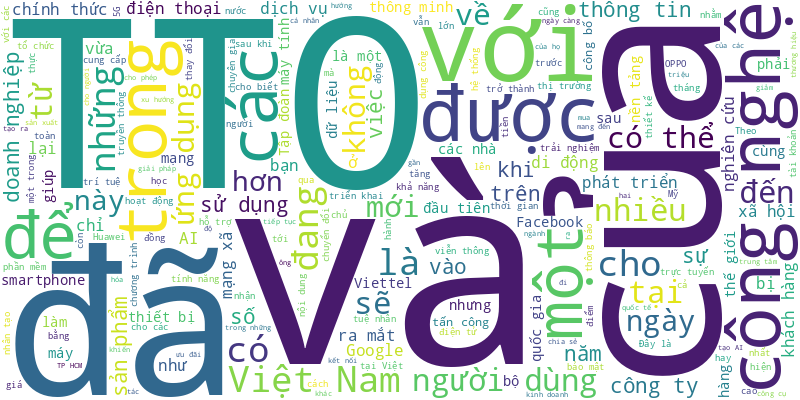
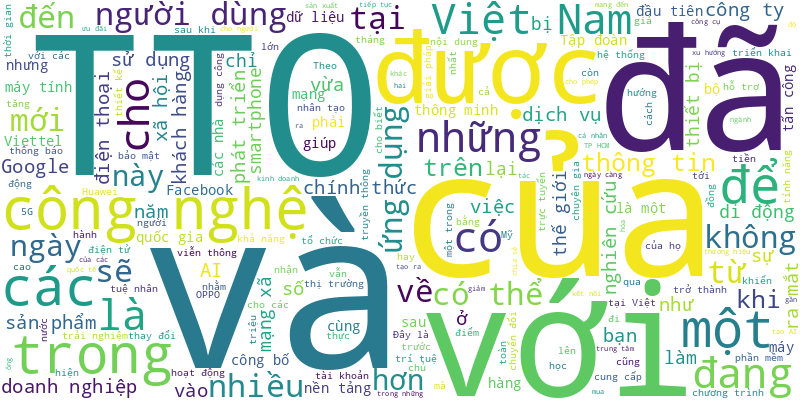
🍀 = 30%

diff --git a/README.md b/README.md
@@ -1,6 +1,22 @@
 # Tuoi Tre RSS 
 
 ## Giáo dục 
+- Một nhóm tác giả đã khảo sát dự kiến chọn môn thi tự chọn cho kỳ thi tốt nghiệp THPT năm 2025 trên 80.000 học sinh ở 20 tỉnh thành.
+- Chuỗi tư vấn tuyển sinh - hướng nghiệp 2025 của báo Tuổi Trẻ chính thức bắt đầu sáng nay 11-1 với ba chương trình diễn ra đồng thời tại TP Buôn Ma Thuột (Đắk Lắk), TP Vinh (Nghệ An) và TP Huế.
+- Bộ Giáo dục và Đào tạo vừa có văn bản đề nghị các địa phương sớm lựa chọn, công bố môn thi thứ ba trong kỳ thi tuyển sinh vào lớp 10.
+- Đoạn clip một thanh niên bị nhân viên dịch vụ bảo vệ đe dọa trước cổng ký túc xá Đại học Quốc gia TP.HCM đang lan truyền trên mạng xã hội.
+- Câu hỏi này là chủ đề đối với các học sinh THCS, THPT tại TP.HCM trong cuộc thi hùng biện tiếng Nhật, do Sở Giáo dục và Đào tạo TP.HCM tổ chức ngày 10-1.
+- Sở Giáo dục và Đào tạo TP.HCM đã ban hành kế hoạch tổ chức kiểm điểm theo thông báo số 613/TB-SGDĐT ngày 16-2-2023 của Sở Giáo dục và Đào tạo.
+- Các sản phẩm hoàn thiện đẹp mắt, đầy sáng tạo của học sinh THCS ở hội thi khéo tay kỹ thuật năm nay khiến ngay cả các vị giám khảo cũng trầm trồ
+- Nhiều học sinh tại Đắk Lắk gửi lo lắng đến Chương trình tư vấn tuyển sinh - hướng nghiệp năm 2025 rằng: liệu Gen Z có thất nghiệp?
+- Tổ chức trong bốn ngày liên tiếp (9 đến 12-1), Lễ tốt nghiệp đợt 1 năm 2025 là sự kiện trọng đại được đông đảo sinh viên HUTECH chờ đợi.
+- Năm 2024, Trường đại học Đồng Tháp có 5 phó giáo sư, 2 tiến sĩ và tuyển dụng mới 12 tiến sĩ các chuyên ngành, đồng thời chi 2,95 tỉ đồng tặng 19 phó giáo sư, tiến sĩ này nhằm thu hút nhân lực trình độ cao.
+- Nếu quy định thi lớp 10 với 3 môn toán, văn và tiếng Anh từ năm lớp 6, học sinh chỉ tập trung vào 3 môn thi này, không dành thời gian cho các môn học khác.
+- Sáng nay 10-1, hàng ngàn học sinh khối lớp 7 tại TP Thái Bình đã vào lớp để làm bài kiểm tra học kỳ 1 năm học 2024-2025, sau "sự cố" nhầm lẫn ở đề thi môn toán.
+- Với tuyển sinh lớp 6, tiêu chí riêng không chỉ là các yêu cầu trong hồ sơ xét tuyển mà còn cần đánh giá trực tiếp học sinh.
+- Báo Tuổi Trẻ tổ chức chuỗi 7 chương trình tư vấn tuyển sinh hướng nghiệp vào thứ bảy, chủ nhật này tại nhiều địa phương để khởi động mùa tuyển sinh 2025.
+- Bộ trưởng Bộ Giáo dục và Đào tạo Nguyễn Kim Sơn trả lời ý kiến cử tri về việc hệ số lương giáo viên mầm non được đánh giá thấp nhất các cấp học.
+- Học bổng Chính phủ New Zealand bậc trung học (NZSS) 2025 đã chính thức nhận hồ sơ và kéo dài đến hết ngày 16-3.
 - Ngày 9-1, PGS.TS Nguyễn Xuân Thành - vụ trưởng Vụ Giáo dục trung học, Bộ GD-ĐT - đã có những trao đổi về thông tư số 29 quy định về dạy thêm, học thêm của Bộ GD-ĐT.
 - Bốn bị can nguyên là lãnh đạo, cán bộ Phòng Giáo dục và Đào tạo huyện Quan Hóa (Thanh Hóa), nguyên hiệu trưởng Trường phổ thông dân tộc nội trú THCS Quan Hóa vừa bị khởi tố vì liên quan đến sai phạm trong tuyển sinh.
 - Chiều 9-1, TS Nguyễn Trà Giang, viện trưởng Viện Khoa học và Quản lý thể dục thể thao UMT, vừa gửi đơn đến các cơ quan báo chí về việc Trường đại học Quản lý và Công nghệ TP.HCM (UMT) mới đây tạm đình chỉ công việc của bà.
@@ -985,24 +1001,39 @@
 - Trường đại học Khoa học Xã hội và Nhân văn Hà Nội hủy lễ khai giảng năm học mới, dành kinh phí ủng hộ đồng bào bị ảnh hưởng bởi bão Yagi.
 - Năm học 2024 - 2025, sinh viên Đại học Bách khoa Hà Nội đi xe buýt sẽ được nhà trường cấp minh chứng làm căn cứ để cộng điểm rèn luyện.
 - Một số phụ huynh đưa đón con đi học bằng xe máy vẫn vô tư để con đầu trần, trong khi mình đội nón bảo hiểm.
-- Đã hơn 10 ngày trôi qua nhưng vẫn còn những trường và điểm trường ở miền Bắc chưa thể mở lại sau ảnh hưởng của bão Yagi, học sinh vẫn nghỉ học.
-- "Các em bé ở Làng Nủ đã có cơm nóng, thịt tươi, rau xanh", những tấm ảnh chụp bữa ăn ấm áp ở nhà bán trú tại Lào Cai làm ấm lòng tất cả.
-- Mưa lớn đã làm mực nước trên các sông Ngàn Sâu và Ngàn Phố gần lên mức báo động 2, sông La ở mức báo động 1.
-- Nhiều thầy cô giáo tâm sự họ phải quay cuồng với các cuộc thi, thậm chí có những cuộc thi không liên quan gì tới việc giảng dạy.
-- Thông tin một phụ huynh lùi xe trong sân trường làm học sinh lớp 2 tử vong khiến nhiều người đau xót nghẹn ngào.
-- Đó là chia sẻ của ông Luke Turner, giám đốc điều hành Trường song ngữ quốc tế Emasi Nam Long, TP.HCM, về việc tổ chức "Tuần lễ sẻ chia" hướng về vùng bão lũ cho học sinh.
-- Những học sinh vùng lũ ở Trấn Yên (Yên Bái) đón nhận niềm vui trẻ thơ, sau nhiều ngày cùng gia đình vượt qua đợt mưa lũ lịch sử.
-- Huân chương Cành cọ hàn lâm ghi nhận nỗ lực không ngừng nghỉ của TS Phan Thị San Hà trong việc xây dựng và phát triển Trung tâm CARE cũng như bồi đắp mối quan hệ giữa Trường đại học Bách khoa (Đại học Quốc gia TP.HCM) và các đối tác Pháp.
-- Chiều 19-9, báo Tuổi Trẻ và Trường đại học Nguyễn Tất Thành tổng kết khóa 1 dự án hợp tác đào tạo sinh viên giữa hai bên.
-- Trước những thiệt hại do bão số 3, Bộ Giáo dục và Đào tạo yêu cầu các trường thực hiện các giải pháp dạy học linh hoạt, không gây áp lực, quá tải cho giáo viên và học sinh.
-- Năm học mới, Hải Phòng miễn toàn bộ học phí từ mầm non đến THPT; Quảng Ninh sẽ xem xét hỗ trợ 100% học phí cho học sinh vì bão số 3; Vĩnh Phúc giảm 50% học phí so với năm ngoái.
-- Số lượng sinh viên đại học bỏ học ở Hàn Quốc tăng đột biến trong 5 năm qua, khi có tới 90.000 sinh viên bỏ học từ năm 2019-2023.
-- Khóa học do các chuyên gia trong lĩnh vực bán dẫn từ Đại học Quốc gia Singapore (NUS), Trung tâm Nghiên cứu khoa học quốc gia Pháp (CNRS)... hướng dẫn.
-- Sáng 19-9, TP.HCM tổ chức sơ kết 1 năm triển khai chương trình phối hợp giữa Sở Giáo dục và Đào tạo và Sở Lao động - Thương binh và Xã hội về định hướng phân luồng và giáo dục nghề nghiệp với học sinh THCS và THPT giai đoạn 2023-2025.
-- Nhiều trường học tại TP.HCM đã dành ngày làm việc tốt "gửi nắng yêu thương" hướng về đồng bào vùng bão lũ.
-- Năm học 2024-2025, Trường đại học Cần Thơ triển khai đề án nâng cấp trường thành trung tâm đào tạo nguồn nhân lực chất lượng cao, nghiên cứu, ứng dụng khoa học của TP Cần Thơ và vùng Đồng bằng sông Cửu Long.
 ![Edu](Edu.png)
 ## Thời Sự 
+- Chuyên gia cho rằng nhu cầu đi lại dịp cuối năm (âm lịch) tăng cao, hạ tầng chưa đáp ứng và một bộ phận tài xế phải uốn nắn hành vi do nghị định 168, khiến giao thông Hà Nội trở nên đông đúc hơn trong những ngày qua.
+- Chủ công viên Đầm Sen tạm nộp gần 49 tỉ đồng tiền thuê đất; Bộ Tài chính đề xuất 5 hình thức xử lý nhà, đất công.
+- Hôm nay 11-1, thời tiết Bắc Bộ rét đậm rét hại, nhiệt độ giảm sâu, miền Trung mưa to còn miền Nam sáng mát mẻ.
+- Một chiếc ô tô lao vào một chi nhánh ngân hàng ở Nghệ An làm bảo vệ bị một phen hú vía trong tối 10-1.
+- Chương trình Tết vì người nghèo mang tên 'Nghĩa tình dòng Lam', tỉnh Nghệ An đã kêu gọi được hơn 132 tỉ đồng hỗ trợ gia đình hộ nghèo, khó khăn có một cái Tết đầm ấm.
+- Lực lượng phòng cháy chữa cháy Đồng Nai đang nỗ lực dập đám cháy tại xưởng gỗ rộng cả ngàn mét vuông trên địa bàn.
+- Tối 10-1, Thủ tướng Phạm Minh Chính về đến Hà Nội, kết thúc chuyến công tác đầu năm đến Lào thành công, với gần 20 hoạt động trong chưa đầy 40 tiếng.
+- Đoạn clip một thanh niên bị nhân viên dịch vụ bảo vệ đe dọa trước cổng ký túc xá Đại học Quốc gia TP.HCM đang lan truyền trên mạng xã hội.
+- Bộ Chính trị quyết định thi hành kỷ luật cảnh cáo Bí thư Tỉnh ủy Vĩnh Phúc Dương Văn An. Ban Bí thư quyết định khai trừ Đảng các ông Lê Ô Pích, Lý Vinh Quang.
+- Chiều 10-1, UBND tỉnh Nghệ An tổ chức lễ công bố quyết định của Thủ tướng Chính phủ về công tác cán bộ và bàn giao nhiệm vụ chủ tịch UBND tỉnh.
+- Trong năm 2024, ngành nội chính TP.HCM thực hiện xong 165/222 cuộc thanh tra hành chính, qua đó phát hiện sai phạm kinh tế hơn 86,3 tỉ đồng và hơn 3.500m² đất.
+- Hai nữ ủy viên Ban Thường vụ Tỉnh ủy Đắk Lắk (đều 55 tuổi) xin nghỉ hưu để tạo thuận lợi cho công tác sắp xếp, tinh gọn bộ máy.
+- Năm 2024, quận 1 (TP.HCM) thu ngân sách vượt 20.371 tỉ đồng, đạt 118,78% chỉ tiêu, là một trong 16 địa phương có số thu ngân sách vượt 10% trở lên được TP khen thưởng.
+- Già hóa dân số khiến lực lượng thanh niên đã giảm từ hơn 23,4 triệu người năm 2018 còn hơn 20 triệu người (năm 2024).
+- Đến ngày 9-1, cơ quan hành chính cấp tỉnh Đồng Tháp đã giảm 6 sở và 82 tổ chức trực thuộc sở, đạt tỉ lệ 24,14%.
+- Gần 500 ngày sau khi khởi công, hạng mục nhà ga hành khách sân bay Long Thành cơ bản hoàn thành toàn bộ bê tông cốt thép phần ngầm và bước vào giai đoạn cất nóc.
+- Sáng 10-1, đèn tín hiệu giao thông trên quốc lộ 22 (huyện Củ Chi, TP.HCM) gặp sự cố, nên người đi xe máy phải dắt bộ qua và tài xế ô tô không dám vượt. Gặp trường hợp này người dân cần lưu ý gì?
+- Mỗi năm Việt Nam có 200.000 ca đột quỵ mắc mới và là nguyên nhân hàng đầu gây tử vong, tàn phế ở người.
+- Chính phủ ban hành chương trình hành động thực hiện nghị quyết số 57 của Bộ Chính trị về đột phá phát triển khoa học, công nghệ, đổi mới sáng tạo và chuyển đổi số quốc gia.
+- 700 phần quà Tết cho công nhân, người lao động Bình Dương được Phó thủ tướng Trần Hồng Hà và cơ quan chức năng trao tặng, ngoài ra còn hàng trăm ngàn phần quà khác với tổng kinh phí 210 tỉ đồng.
+- Thủ tướng Nga Mikhail Vladimirovich Mishustin sẽ thăm chính thức Việt Nam từ ngày 14 đến 15-1, đánh dấu chuyến đi đầu tiên đến Việt Nam trên cương vị này.
+- Đáp ứng nhu cầu di chuyển tăng cao dịp Tết Nguyên đán 2025, các hãng hàng không đã tăng cường thuê ướt máy bay, gồm cả phi hành đoàn.
+- Lê Dũng Khái (40 tuổi, Phú Yên) giả danh cán bộ cấp giấy chứng nhận quyền sử dụng đất để lừa nhiều người.
+- Chăn nuôi gia súc, gia cầm tại TP.HCM đang giảm sút do chi phí gia tăng, ô nhiễm môi trường chưa được giải quyết triệt để và nguy cơ dịch bệnh từ các tỉnh lân cận.
+- Với tổng diện tích sàn xây dựng 24,5ha và vốn đầu tư trên 6.000 tỉ đồng, trung tâm thương mại ở Cù lao Phố là một trong các trung tâm lớn nhất cả nước.
+- Vụ án mạng nghiêm trọng xảy ra trên địa bàn thị xã Ninh Hòa (Khánh Hòa) khiến hai vợ chồng tử vong.
+- Cầu vượt Tây Sơn - Thái Hà đã có biển cấm xe khách cùng hệ thống giới hạn chiều cao, nhưng chiếc ô tô 29 chỗ vẫn đi vào và mắc kẹt.
+- Sáng 10-1, Ban An toàn giao thông TP.HCM tổ chức lễ phát động ra quân an toàn giao thông năm 2025, phát động cao điểm đảm bảo trật tự giao thông Tết Nguyên đán.
+- Bộ Lao động - Thương binh và Xã hội hướng dẫn về cách tính mức lương hưu hằng tháng áp dụng từ ngày 1-7-2025 tại dự thảo thông tư mới.
+- Bộ trưởng Bộ Giáo dục và Đào tạo Nguyễn Kim Sơn trả lời ý kiến cử tri về việc hệ số lương giáo viên mầm non được đánh giá thấp nhất các cấp học.
+- Công viên hữu nghị Lào - Việt Nam là quà tặng của Việt Nam dành cho Lào.
 - Tin tức đáng chú ý: Số cơ sở bị phạt vì vi phạm an toàn thực phẩm tăng 3 lần; Rà soát tổng thể tiến độ sân bay Long Thành...
 - Hôm nay 10-1, thời tiết miền Bắc nhiệt độ giảm sâu, trời rét đậm rét hại, miền Trung mưa to, còn miền Nam đêm và sáng sớm trời lạnh.
 - Thủ tướng Phạm Minh Chính vừa ký các quyết định phê chuẩn kết quả bầu, miễn nhiệm chức vụ chủ tịch UBND hai tỉnh Nghệ An và Bắc Giang.
@@ -1973,37 +2004,6 @@
 - Hôm nay 20-12, thời tiết Bắc Bộ lại giảm nhiệt so với những ngày trước. Các tỉnh miền Đông Nam Bộ sáng sớm trời se lạnh, có nơi 19 độ C.
 - Các bác sĩ Bệnh viện Bình Dân (TP.HCM) vừa phẫu thuật bằng robot tái tạo cơ hoành trái cho bệnh nhân với ưu điểm ít tổn thương, ít đau, ít mất máu và nhanh xuất viện.
 - Cặp đôi thương nhân thành công người Mông Cổ đã có buổi tiệc cưới trên du thuyền Nautilus ở TP Phú Quốc (Kiên Giang) đầy sang trọng và ấn tượng, khi hòa mình cùng cảnh sắc núi rừng, biển đảo.
-- Tập trung cao độ, phi công điều khiển chiếc tiêm kích Su30-MK2 mang số hiệu 8591 tiến về phía khu vực lễ đài, bật tăng lực bay thẳng đứng thả 96 quả đạn nhiễu, đồng thời làm động tác khoan xoay nhiều vòng.
-- Cơ quan chức năng đã xác minh được danh tính của toàn bộ 11 nạn nhân tử vong trong vụ cháy quán cà phê do phóng hỏa trên đường Phạm Văn Đồng (Hà Nội).
-- Đồng loạt cử tri các tỉnh thành Hà Nội, TP.HCM, Vĩnh Long và Trà Vinh cùng có văn bản kiến nghị nâng mức giảm trừ gia cảnh cho người nộp thuế cá nhân. Mức cao nhất được đề nghị là 18 triệu đồng/tháng.
-- Tổng Bí thư Tô Lâm yêu cầu các cấp ủy, tổ chức đảng và ủy ban kiểm tra các cấp cần tiếp tục thực hiện đồng bộ các giải pháp phòng ngừa sai phạm, tiêu cực.
-- Sau khi công an truy xét người đàn ông nước ngoài va quẹt xe với tài xế xe ôm công nghệ, hai người gặp lại nhau, bắt tay xin lỗi, bỏ qua cho nhau.
-- Tại công an, Cao Văn Hùng tỏ ra bình thản, khai do bị đánh nên thiếu suy nghĩ, không thể kiềm chế được bản thân dẫn đến phóng hỏa đốt quán cà phê làm 11 người chết.
-- Trường hợp có yêu cầu đặc thù về quản lý nhà nước đối với lĩnh vực giao thông vận tải trên địa bàn, Hà Nội và TP.HCM có thể xem xét, quyết định việc duy trì Sở Giao thông vận tải.
-- Thông tin này được lãnh đạo thành phố Đà Nẵng cho biết trong chương trình gặp mặt 2.500 cán bộ quân đội đã nghỉ hưu trên địa bàn.
-- Thời gian qua, người dân liên tục phản ánh tình trạng hư hỏng, bầy hầy trong thời gian làm dự án mở rộng đường Hoàng Hoa Thám (nối nhà ga T3 sân bay Tân Sơn Nhất).
-- Thủ tướng Chính phủ đã ký quyết định phê chuẩn kết quả bầu chức vụ chủ tịch UBND tỉnh Quảng Ninh đối với ông Phạm Đức Ấn.
-- Để sắp xếp tinh gọn bộ máy phải thực hiện nguyên tắc một việc chỉ giao một người và một người có thể làm nhiều việc, ai làm tốt nhất thì giao.
-- Chủ tịch UBND TP.HCM Phan Văn Mãi vừa yêu cầu đội ngũ cán bộ tăng cường kỷ cương hành chính để thực hiện mục tiêu tăng trưởng GRDP năm 2025 trên 10%.
-- Xuất phát từ mâu thuẫn nhỏ, Cao Văn Hùng có hành vi ứng xử côn đồ, mất nhân tính khi mang xô đi mua xăng đốt quán cà phê, gây ra hậu quả vô cùng đau đớn, làm 11 người thiệt mạng oan uổng.
-- Chiều 19-12, Sở Tài nguyên và Môi trường TP.HCM thông tin đến báo chí về tiến độ tháo gỡ khó khăn, vướng mắc cho Thảo cầm viên Sài Gòn.
-- Dù lộ trình kiểm định khí thải xe máy chưa làm ngay từ 1-1-2025, nhưng với gần 8,5 triệu xe máy đang quản lý, TP.HCM sẽ chuẩn bị những gì để người dân không bỡ ngỡ?
-- Các doanh nghiệp tại Việt Nam đang phải đối mặt với rủi ro an ninh mạng không hề nhỏ khi Việt Nam đứng đầu Đông Nam Á về mã độc lây nhiễm qua thiết bị lưu trữ.
-- Thông tin này được Ban Quản lý đường sắt đô thị TP.HCM (chủ đầu tư tuyến metro số 1) khẳng định trong cuộc họp báo kinh tế và xã hội TP.HCM, chiều 19-12.
-- Từng có tiền án về ma túy, người đàn ông ở Nghệ An vừa ra tù được ba tháng tiếp tục buôn hơn 3,6kg ma túy.
-- Được đầu tư giai đoạn 1 với số vốn hàng trăm tỉ đồng, dự án Trường THPT chuyên Phan Bội Châu, Nghệ An xây dang dở chưa đưa vào sử dụng, có dấu hiệu xuống cấp.
-- Nhiều phương hướng, nhiệm vụ về công tác kiểm tra, giám sát được đề ra trong năm 2025. Trong đó có định hướng: kiên quyết xử lý đối tượng lợi dụng dịp sắp xếp, tinh gọn tổ chức, bộ máy, tổ chức đại hội để tố cáo sai sự thật.
-- Bí thư Thành ủy Hà Nội đề nghị các cơ quan tư pháp thành phố sớm kết luận điều tra, hoàn thiện hồ sơ, đưa ra xét xử vụ án phóng hỏa quán cà phê làm 11 người chết trong thời gian nhanh nhất.
-- Cử tri quận Cẩm Lệ (Đà Nẵng) đề nghị thành phố cần nghiên cứu và đề xuất đặt tên đường, cây cầu mang tên ông Nguyễn Bá Thanh.
-- Để đảm bảo các trung tâm đăng kiểm không bị ảnh hưởng hoạt động do thiếu đăng kiểm viên, việc thu hồi chứng chỉ của đăng kiểm viên bị án treo tiếp tục được tạm ngừng đến 1-1-2026.
-- Cảnh sát giao thông (CSGT) đang làm nhiệm vụ trên đường cao tốc TP.HCM - Trung Lương thì nhận được lời đề nghị giúp đỡ từ người dân, ngay sau đó các chiến sĩ đã dùng xe đặc chủng CSGT chở bệnh nhi vào bệnh viện cấp cứu kịp thời.
-- Nam thanh niên 18 tuổi ở Quảng Nam thừa nhận đã nhiều lần lên Facebook nhắn tin cho một số bạn nữ dưới 16 tuổi làm quen, hẹn đi chơi rồi vào nhà nghỉ giao cấu, quay clip và phát tán trên mạng.
-- Triển lãm Quốc phòng quốc tế Việt Nam 2024 có những vũ khí, xe tăng, UAV lần đầu tiên xuất hiện, có những sản phẩm là nỗi khiếp sợ của đối thủ trên chiến trường.
-- Bùi Phụ Đạt, tức Cu Đực, một đại ca giang hồ cộm cán ở Quảng Ngãi, vừa bị cảnh sát hình sự Công an tỉnh Quảng Ngãi bắt giữ vì hành vi cưỡng đoạt tài sản.
-- Chiều 19-12, tại họp báo kinh tế - xã hội, thượng tá Nguyễn Thăng Long - phó Phòng tham mưu, Công an TP.HCM - thông tin về công tác quản lý mua bán, sử dụng pháo hoa và đảm bảo an toàn cháy nổ Tết Nguyên đán 2025.
-- Thi công Nhà máy LNG Hải Lăng giai đoạn 1 sẽ phát sinh hơn 2,1 triệu m³ vật chất nạo vét, trong đó 1 triệu m³ làm vật liệu san lấp, còn lại gần 1,1 triệu m³ được nhận chìm tại vùng biển.
-- Chủ đầu tư phát hiện nhà thầu gian dối nhờ hợp đồng nguyên tắc thuê ô tô, hồ sơ kiểm định có ngày tháng khác với hình ảnh kiểm định. Từ nghi ngờ này đã phát hiện gian dối của doanh nghiệp.
-- Tài xế bị hành hung khi chờ đèn đỏ ở Bình Phước bảo rằng không mong muốn người đánh mình phải vướng vòng lao lý, và muốn nhắn gửi anh em tài xế hãy giữ bình tĩnh và xử lý văn minh hơn.
 ![New](News.png)
 ## Nhịp sống số 
 - Ngày 3-1, Google thông báo đã thanh toán 100 triệu CAD (tương đương 69 triệu USD) cho các cơ quan báo chí Canada để sử dụng nội dung thông tin trên nền tảng này.
